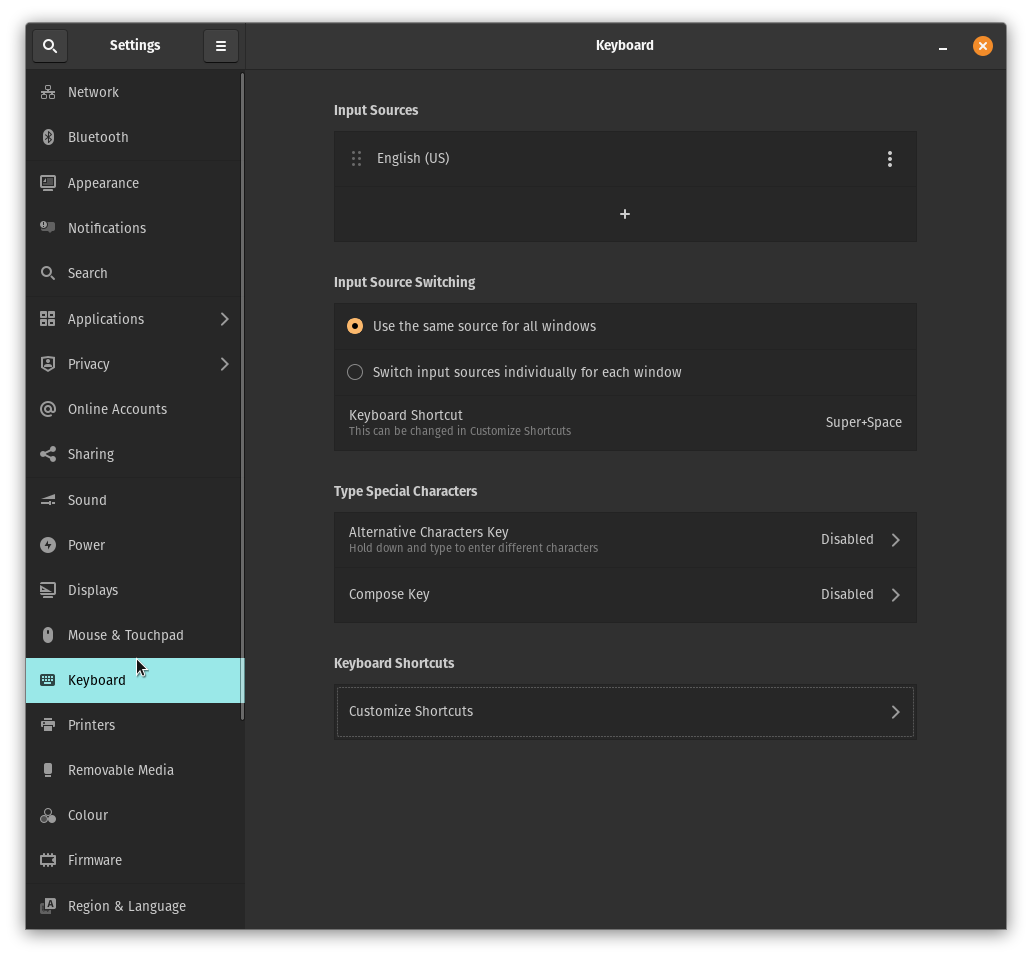
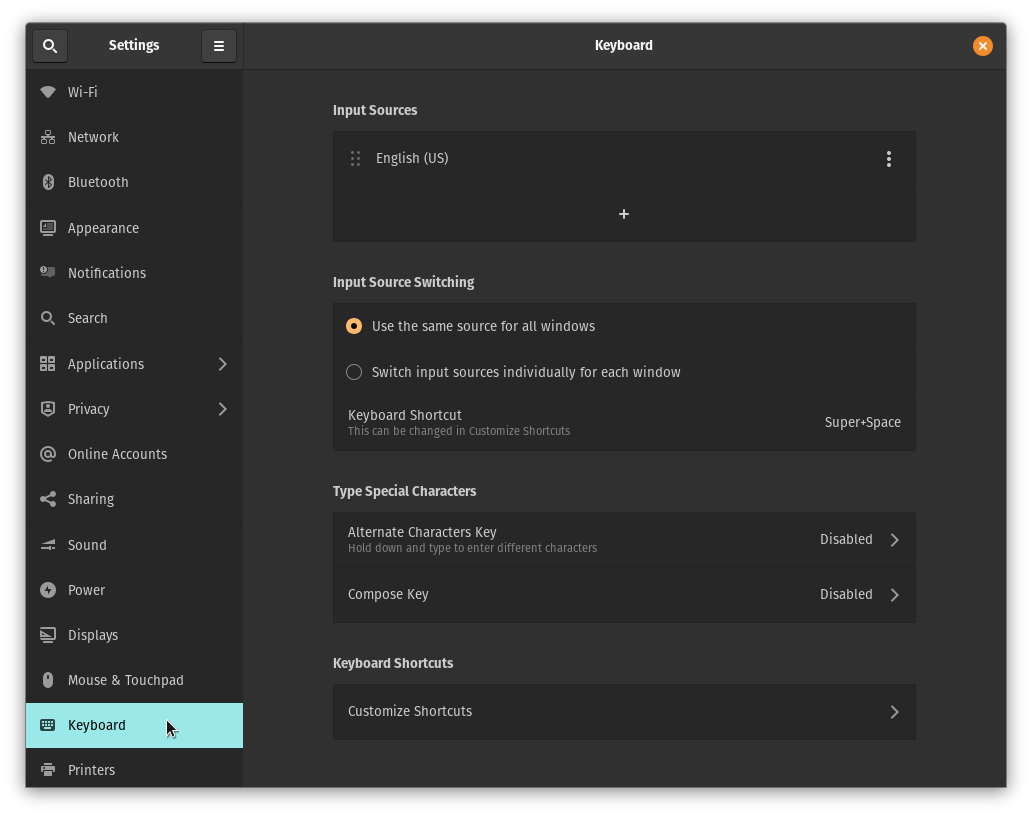
Grammar, structure, and screenshot touch-ups.

diff --git a/_articles/keyboard-shortcuts.md b/_articles/keyboard-shortcuts.md
@@ -11,42 +11,46 @@ hidden: false
 section: community
 
 ---
+You can view and change keyboard shortcuts in Pop!\_OS using the Settings app.
 
-### Modifying existing keyboard shortcuts in Pop!_OS.
+### Viewing Keyboard Shortcuts
 
-To view keyboard shortcuts open keyboard settings by pressing super and typing "settings", then from the menu on the left select "Keyboard"
+To view keyboard shortcuts, open Settings and select the "Keyboard" page on the left.
 
-![Keyboard]({{site.baseurl}}/images/keyboard-shortcuts/settings.png)
+![Settings]({{site.baseurl}}/images/keyboard-shortcuts/settings.png)
 
-Next click "Customize Shortcuts"
+Click on "Customize Shortcuts" (at the bottom of the settings page) to view all active shortcuts.
 
-From here, use the search box to find the shortcut you want to modify, in this example we'll change the shortcut used to open Terminal. Once you have found the shortcut, click the verticle elipsis and select Remove
+![Keyboard Shortcuts dialog]({{site.baseurl}}/images/keyboard-shortcuts/shortcuts.png)
 
-![Remove existing]({{site.baseurl}}/images/keyboard-shortcuts/remove-existing.png)
+### Modifying Keyboard Shortcuts
 
-Click the verticle elipsis again and this time select "Add Shortcut". You will be presented with a window to enter your key combination.
+To modify an existing shortcut, locate the shortcut by browsing to its category or using the search box, then click on the three dots next to it and select `Remove` to remove the existing keybinding.
 
-![Key combination]({{site.baseurl}}/images/keyboard-shortcuts/add-shortcut.png)
+![Removing an existing shortcut]({{site.baseurl}}/images/keyboard-shortcuts/remove-existing.png)
 
-Press your desired key combination then click set. If the key combination exists for another shortcut you will be given the option to replace it.
+Next, click the three dots again and select `Add shortcut` (or `Add another shortcut` if you're adding more than one keybinding for the same action.) This will open a window where you can enter your new keybinding.
+
+![New shortcut entry]({{site.baseurl}}/images/keyboard-shortcuts/shortcut-entry.png)
+
+After entering your desired key combination, click `Set`. If the key combination is already bound to another shortcut, you will be given the option to replace the old shortcut or cancel.
+
+### Adding Keyboard Shortcuts
+
+Select the `Custom Shortcuts` category at the bottom of the Keyboard Shortcuts list.
+
+![Custom Shortcuts category]({{site.baseurl}}/images/keyboard-shortcuts/custom-shortcuts.png)
+
+Click the `Add Shortcut` button.
+
+![Custom Shortcuts list](/images/keyboard-shortcuts/custom-shortcuts-list.png)
+
+Enter a name for the shortcut, the application or command to launch, and the key combination, then click `Add`.
+
+![Adding a custom shortcut](/images/keyboard-shortcuts/add-custom-shortcut.png)
+
+**Note:** In order to execute a shell script, use its absolute path instead of its relative path. For example: `sh /home/username/Documents/script.sh` instead of `sh ~/Documents/script.sh`.
 
 ---
 
-### Adding custom keyboard shortcuts in Pop!_OS.
-
-From the Keyboard Shortcuts list, select "Custom Shortcuts" at the bottom
-
-![Add Custom shortcut window]({{site.baseurl}}/images/keyboard-shortcuts/custom-shortcut.png)
-
-Then select "Add Shortcut".
-
-![Add Custom shortcut window]({{site.baseurl}}/images/keyboard-shortcuts/add-custom-shortcut-window.png)
-
-Enter a name for the shortcut, the application to launch and your key combination then click "Add" 
-
-![Custom shortcut]({{site.baseurl}}/images/keyboard-shortcuts/add-custom-shortcut.png)
-
-Note: In order to execute a shell script, use its absolute path instead of its relative path. Example: `sh /home/$USER/Documents/script.sh` instead of `sh ~/Documents/script.sh`
-
----
 This article was contributed by [kylecorry31](https://github.com/kylecorry31) and updated by [Mark Pendlebury](https://github.com/markpendlebury).
